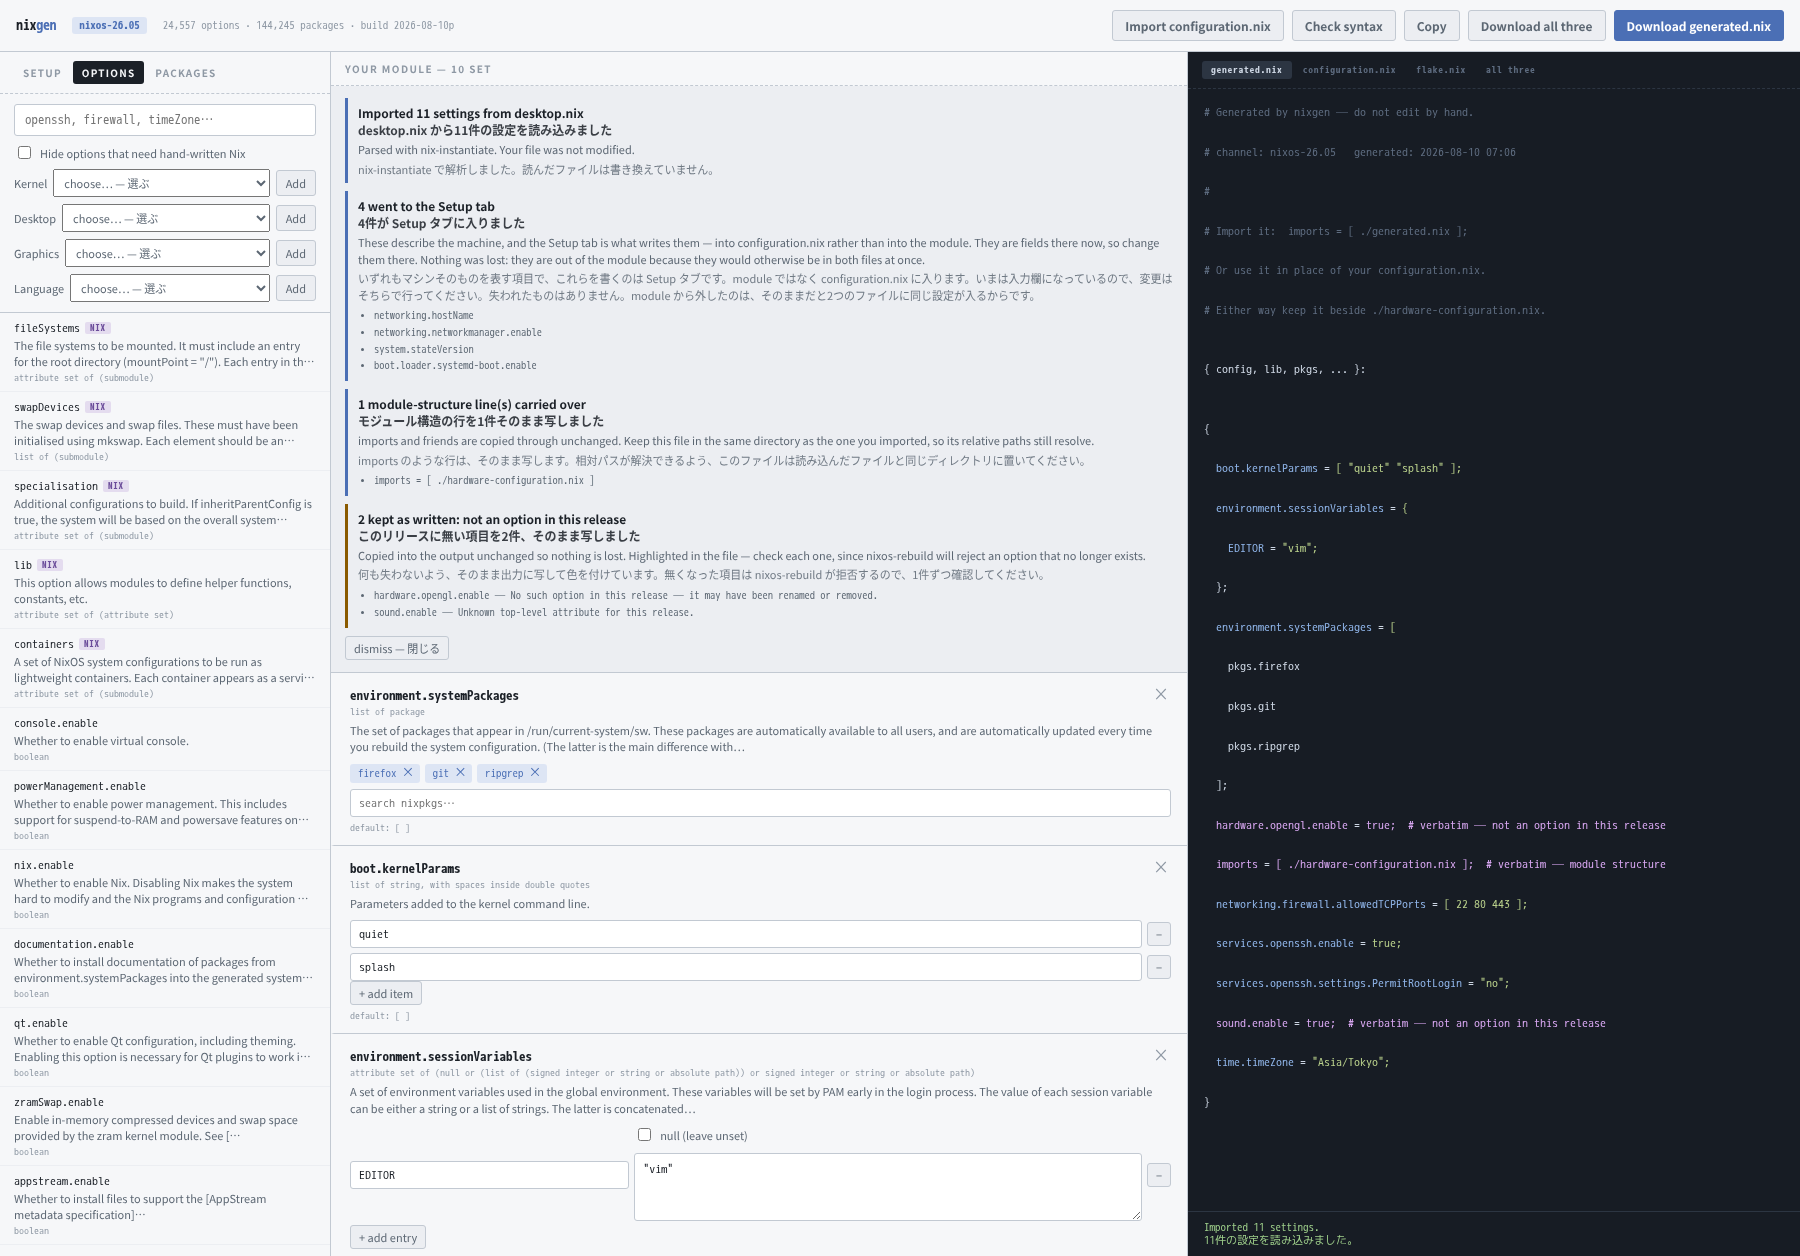
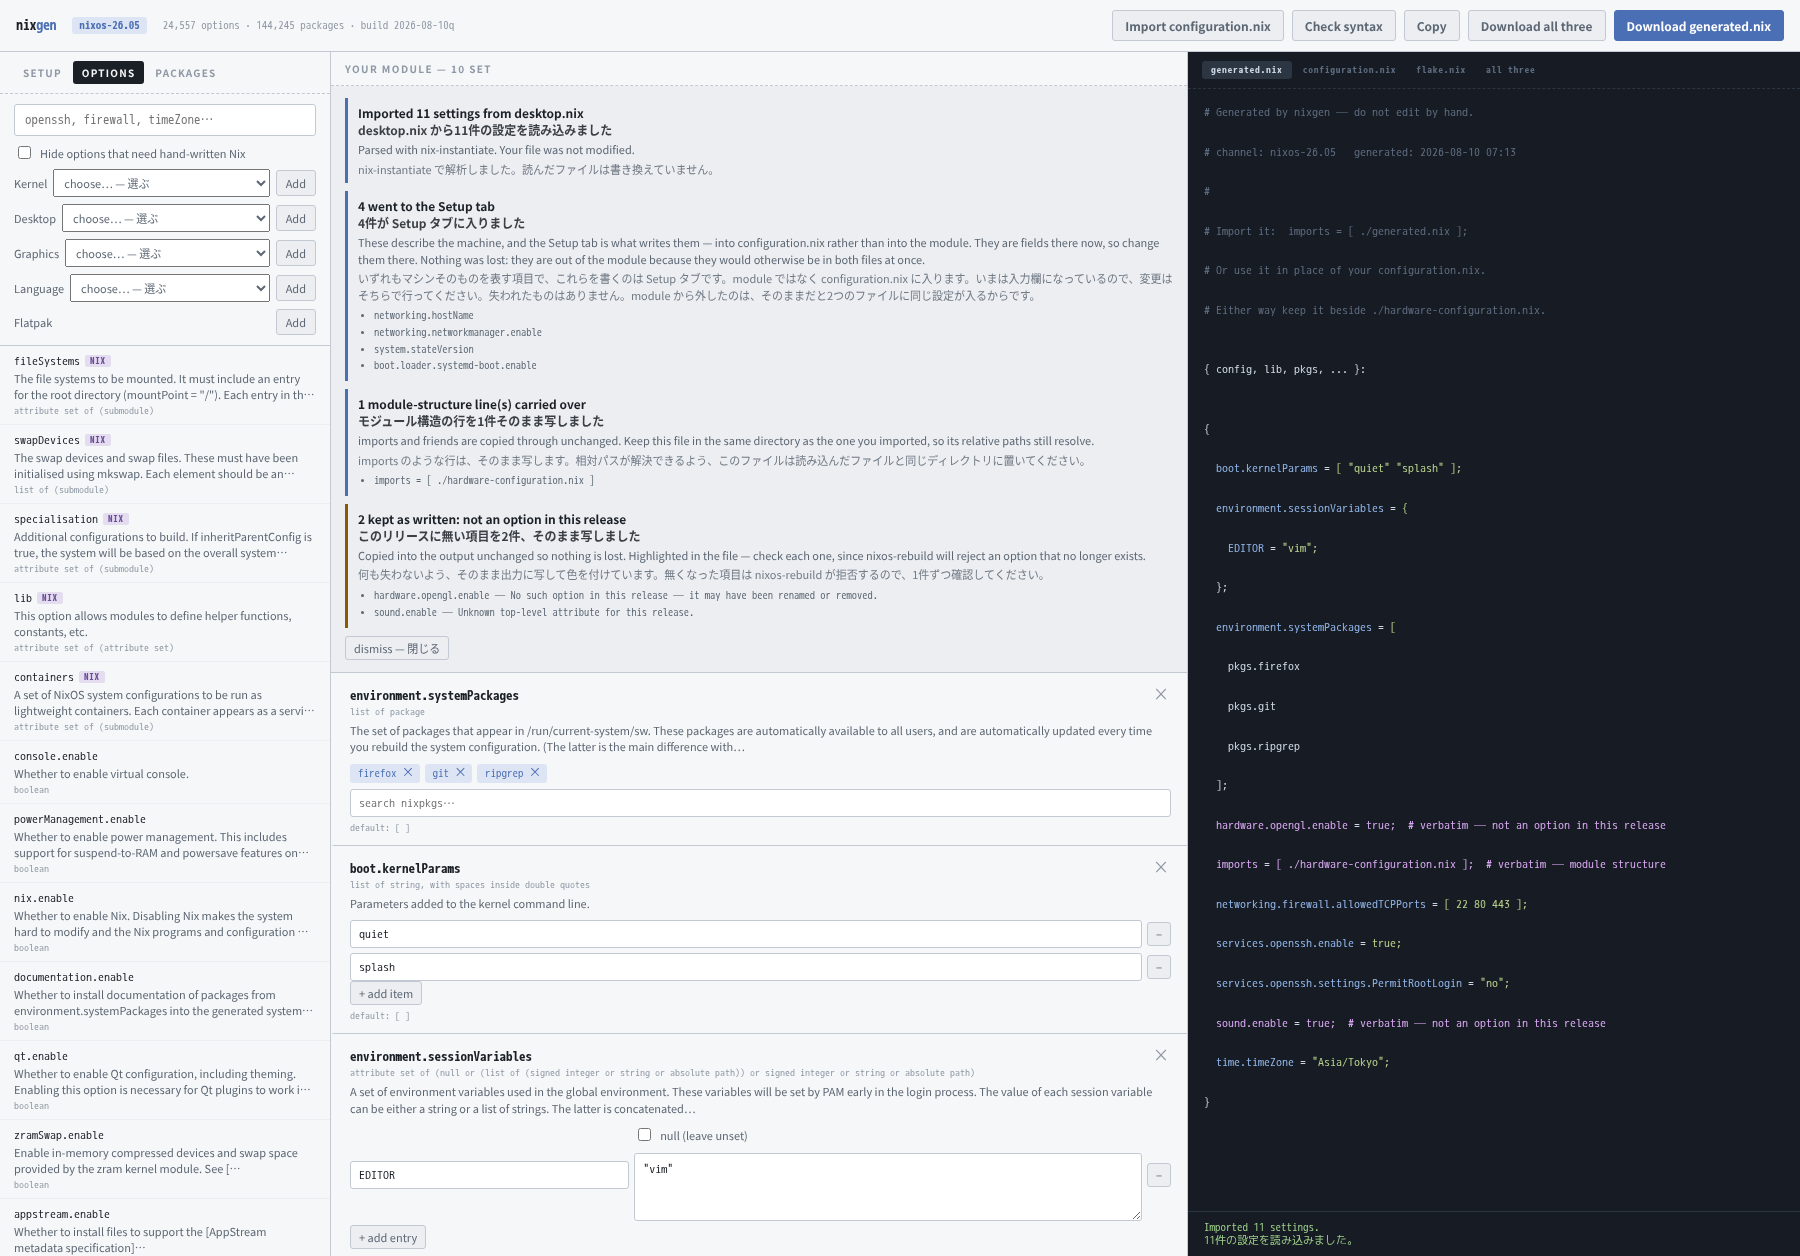
Add a Flatpak row to Options
No dropdown, because Flatpak is on or it is not. Add puts in
services.flatpak.enable, xdg.portal.enable and xdg-desktop-portal-gtk:
a Flatpak reaches the system through an xdg portal, so enable on its own
gives you applications with no file dialog and no screen sharing. GNOME
and Plasma bring their own backend, so there the GTK one is a spare and
the card can go.

The status bar prints the one step no option covers — a fresh install has
no remote, so flathub has to be added once after the rebuild.

Evaluated as a real system at the indexed revision: flatpak in the
systemd packages, portal on, xdg-desktop-portal-gtk in the list.

Changed region(s): [[0.0, 0.2484, 0.1867, 1.0]]

diff --git a/build/static/app.js b/build/static/app.js
@@ -2,7 +2,7 @@
 
 /* Shown in the header. Bump it whenever this file changes, so "the fix did not
    work" can be told apart from "the old file is still being served". */
-const BUILD = '2026-08-10p';
+const BUILD = '2026-08-10q';
 
 const $  = (s, r = document) => r.querySelector(s);
 const $$ = (s, r = document) => [...r.querySelectorAll(s)];
@@ -912,6 +912,52 @@ async function addLanguage(key) {
                   `${L.label}: ${added.length}件の設定を追加しました。${tailJa}`), 'ok');
   }
 }
+
+/* Flatpak is three settings and one command.
+
+   `services.flatpak.enable` on its own installs it and starts nothing you can
+   use: a Flatpak application talks to the outside through an xdg portal, so
+   without one it opens with no file dialog and no screen sharing. GNOME and
+   Plasma bring their own backend, which is why the GTK one goes in as well
+   rather than instead — it is the fallback for the desktops that do not, and
+   an extra backend on a desktop that has one is a card you can delete.
+
+   The command is the part no option covers: a fresh install has no remote, so
+   `flatpak install` finds nothing until flathub is added once, by hand. That
+   is said in the status bar rather than left to be discovered. */
+async function addFlatpak() {
+  const steps = [
+    { paths: ['services.flatpak.enable'], value: true },
+    { paths: ['xdg.portal.enable'], value: true },
+    { paths: ['xdg.portal.extraPortals'], value: ['xdg-desktop-portal-gtk'] },
+  ];
+  const added = [], missing = [];
+  for (const step of steps) {
+    const used = await addWithValue(step.paths, step.value);
+    used ? added.push(used) : missing.push(step.paths[0]);
+  }
+  renderEditor();
+  pushRender();
+  if (missing.length) {
+    setStatus(say(
+      `Flatpak: added ${added.length}, but this release has no ` +
+      `${missing.join(', ')}. Check the result before applying it.`,
+      `Flatpak: ${added.length}件を追加しましたが、このリリースには ` +
+      `${missing.join('、')} がありません。適用する前に結果を確認してください。`), 'bad');
+    return;
+  }
+  setStatus(say(
+    'Flatpak: 3 settings added. Nothing is installed from it yet — a fresh ' +
+    'install has no remote, so add flathub once after the rebuild: ' +
+    'flatpak remote-add --if-not-exists flathub ' +
+    'https://flathub.org/repo/flathub.flatpakrepo',
+    'Flatpak: 3件の設定を追加しました。まだ何も入れられません。' +
+    'インストール直後はリモートが1つも無いので、rebuild のあとに flathub を' +
+    '一度だけ追加してください: flatpak remote-add --if-not-exists flathub ' +
+    'https://flathub.org/repo/flathub.flatpakrepo'), 'ok');
+}
+
+$('#btn-flatpak').addEventListener('click', addFlatpak);
 
 $('#btn-lang').addEventListener('click', () => {
   const key = $('#s-lang').value;

diff --git a/build/static/index.html b/build/static/index.html
@@ -104,6 +104,14 @@
           </select>
           <button class="mini" id="btn-lang">Add</button>
         </div>
+        <!-- Nothing to choose here, so no dropdown: Flatpak is on or it is
+             not. It is more than one setting, though, which is why it is a
+             row rather than something to find in the search. -->
+        <div class="presetline" id="flatpakline">
+          <span>Flatpak</span>
+          <span class="grow"></span>
+          <button class="mini" id="btn-flatpak">Add</button>
+        </div>
         <!-- Picking a category fills the results list, so what happens next is
              the same click as any search hit. Nothing is added on your behalf. -->
         <div class="presetline" id="appsline">

diff --git a/build/static/app.css b/build/static/app.css
@@ -121,6 +121,9 @@ main {
 }
 .presetline select { flex: 1; min-width: 0; padding: 4px 6px; }
 .presetline .mini { padding: 4px 9px; }
+/* The Flatpak row has no dropdown to stretch, so something has to take
+   the space the select takes on the rows above it. */
+.presetline .grow { flex: 1; }
 /* The category names carry their Japanese, and a closed select cuts whatever
    does not fit — which was the second half, the half a translated page relies
    on. This row has no Add button beside it, so the select can have the line to

diff --git a/CHANGELOG.md b/CHANGELOG.md
@@ -9,6 +9,22 @@ option counts.
 
 ## English
 
+### build 2026-08-10q
+
+- **A Flatpak row under Options.** No dropdown — Flatpak is on or it is not —
+  and pressing **Add** puts in `services.flatpak.enable`, `xdg.portal.enable`
+  and `xdg-desktop-portal-gtk` under `xdg.portal.extraPortals`.
+- **The portal is the part people miss.** A Flatpak application reaches the
+  rest of the system through an xdg portal, so `services.flatpak.enable` on its
+  own gives you applications with no file dialog and no screen sharing. GNOME
+  and Plasma bring their own backend, so there the GTK one is a spare and the
+  card can be deleted.
+- **And one step no option covers**: a fresh install has no remote, so the
+  status bar prints the `flatpak remote-add … flathub` line to run once after
+  the rebuild.
+- Evaluated as an actual NixOS system at the indexed revision: flatpak in the
+  systemd packages, the portal enabled, `xdg-desktop-portal-gtk` in the list.
+
 ### build 2026-08-10p
 
 - **Three more packages**, 189 across 12 categories: `localsend` under Chat and
@@ -620,6 +636,13 @@ three of these six showed up in only one of the two.
 ---
 
 ## 日本語
+
+### build 2026-08-10q
+
+- **Options タブに Flatpak の行を追加しました。** プルダウンはありません(**有効か無効かのどちらか**です)。**Add** を押すと `services.flatpak.enable`、`xdg.portal.enable`、`xdg.portal.extraPortals` の `xdg-desktop-portal-gtk` が入ります。
+- **見落とされがちなのは portal のほうです。** Flatpak のアプリは xdg portal を通してシステムの外とやり取りするため、`services.flatpak.enable` だけでは**ファイル選択ダイアログも画面共有も出ない**アプリになります。GNOME と Plasma は自前のバックエンドを持つので、そこでは GTK 版は予備です。不要ならカードを削除できます。
+- **設定では代われない手順も1つ**あります。インストール直後はリモートが無いため、rebuild のあとに一度だけ実行する `flatpak remote-add … flathub` をステータス欄に表示します。
+- 索引と同じリビジョンで**実際の NixOS システムとして評価**しました。systemd のパッケージに flatpak が入り、portal が有効になり、`xdg-desktop-portal-gtk` が一覧に入ることを確認しています。
 
 ### build 2026-08-10p
 

diff --git a/README.md b/README.md
@@ -437,6 +437,29 @@ ship the CJK and emoji fonts already, so there is nothing to add. And the time
 zone: a language is not a place, so nothing here guesses `Asia/Tokyo` from
 Japanese — search for `timeZone` under **Options** and set it yourself.
 
+### Options — turning on Flatpak
+
+The last row under **Options** has no dropdown, because there is nothing to
+choose: **Flatpak** is on or it is not. Pressing **Add** puts in three
+settings — `services.flatpak.enable`, `xdg.portal.enable`, and
+`xdg-desktop-portal-gtk` in `xdg.portal.extraPortals`.
+
+The portal is not optional plumbing. **A Flatpak application talks to the rest
+of your system through an xdg portal**, so without one it opens with no file
+dialog and no screen sharing. GNOME and Plasma bring their own backend, so on
+those the GTK one is a spare — delete that card if you would rather not have
+it.
+
+**One thing no option covers:** a fresh install has no remote, so `flatpak
+install` finds nothing until you add flathub, once, after the rebuild:
+
+```bash
+flatpak remote-add --if-not-exists flathub https://flathub.org/repo/flathub.flatpakrepo
+```
+
+nixgen says this in the status bar when you press Add, because it is the step
+everybody hits and no configuration file can do for you.
+
 ### Packages — common apps
 
 Under **Packages** there is a **Common apps** dropdown. Its entries name each

diff --git a/CLAUDE.md b/CLAUDE.md
@@ -334,6 +334,15 @@ at `nixos-rebuild`, which is the least helpful place for it to surface.
   in place and can open the remote-play ports. It was left out at first, which
   only sent people looking for it; a line in the status bar when `steam` is in
   the package list says the better way without taking the choice away.
+- **The Flatpak row adds the portal, and says the part that is not a setting.**
+  `services.flatpak.enable` alone produces applications with no file dialog and
+  no screen sharing, because a Flatpak reaches the system through an xdg
+  portal — so `xdg.portal.enable` and `xdg-desktop-portal-gtk` go in with it,
+  a spare on GNOME and Plasma and the only backend anywhere else. The thing no
+  option covers is the remote: a fresh install has none, so the status bar
+  prints the `flatpak remote-add … flathub` line. A row with no dropdown is
+  right here — there is nothing to choose — and it is a row rather than a
+  search result because it is three settings, not one.
 - **The language preset stops where it stops, on purpose.** Locale, console
   keymap, X layout, and an input method for Japanese, Korean and Chinese.
   **Not fonts:** `fonts.packages` is a `list of absolute path`, so the form
